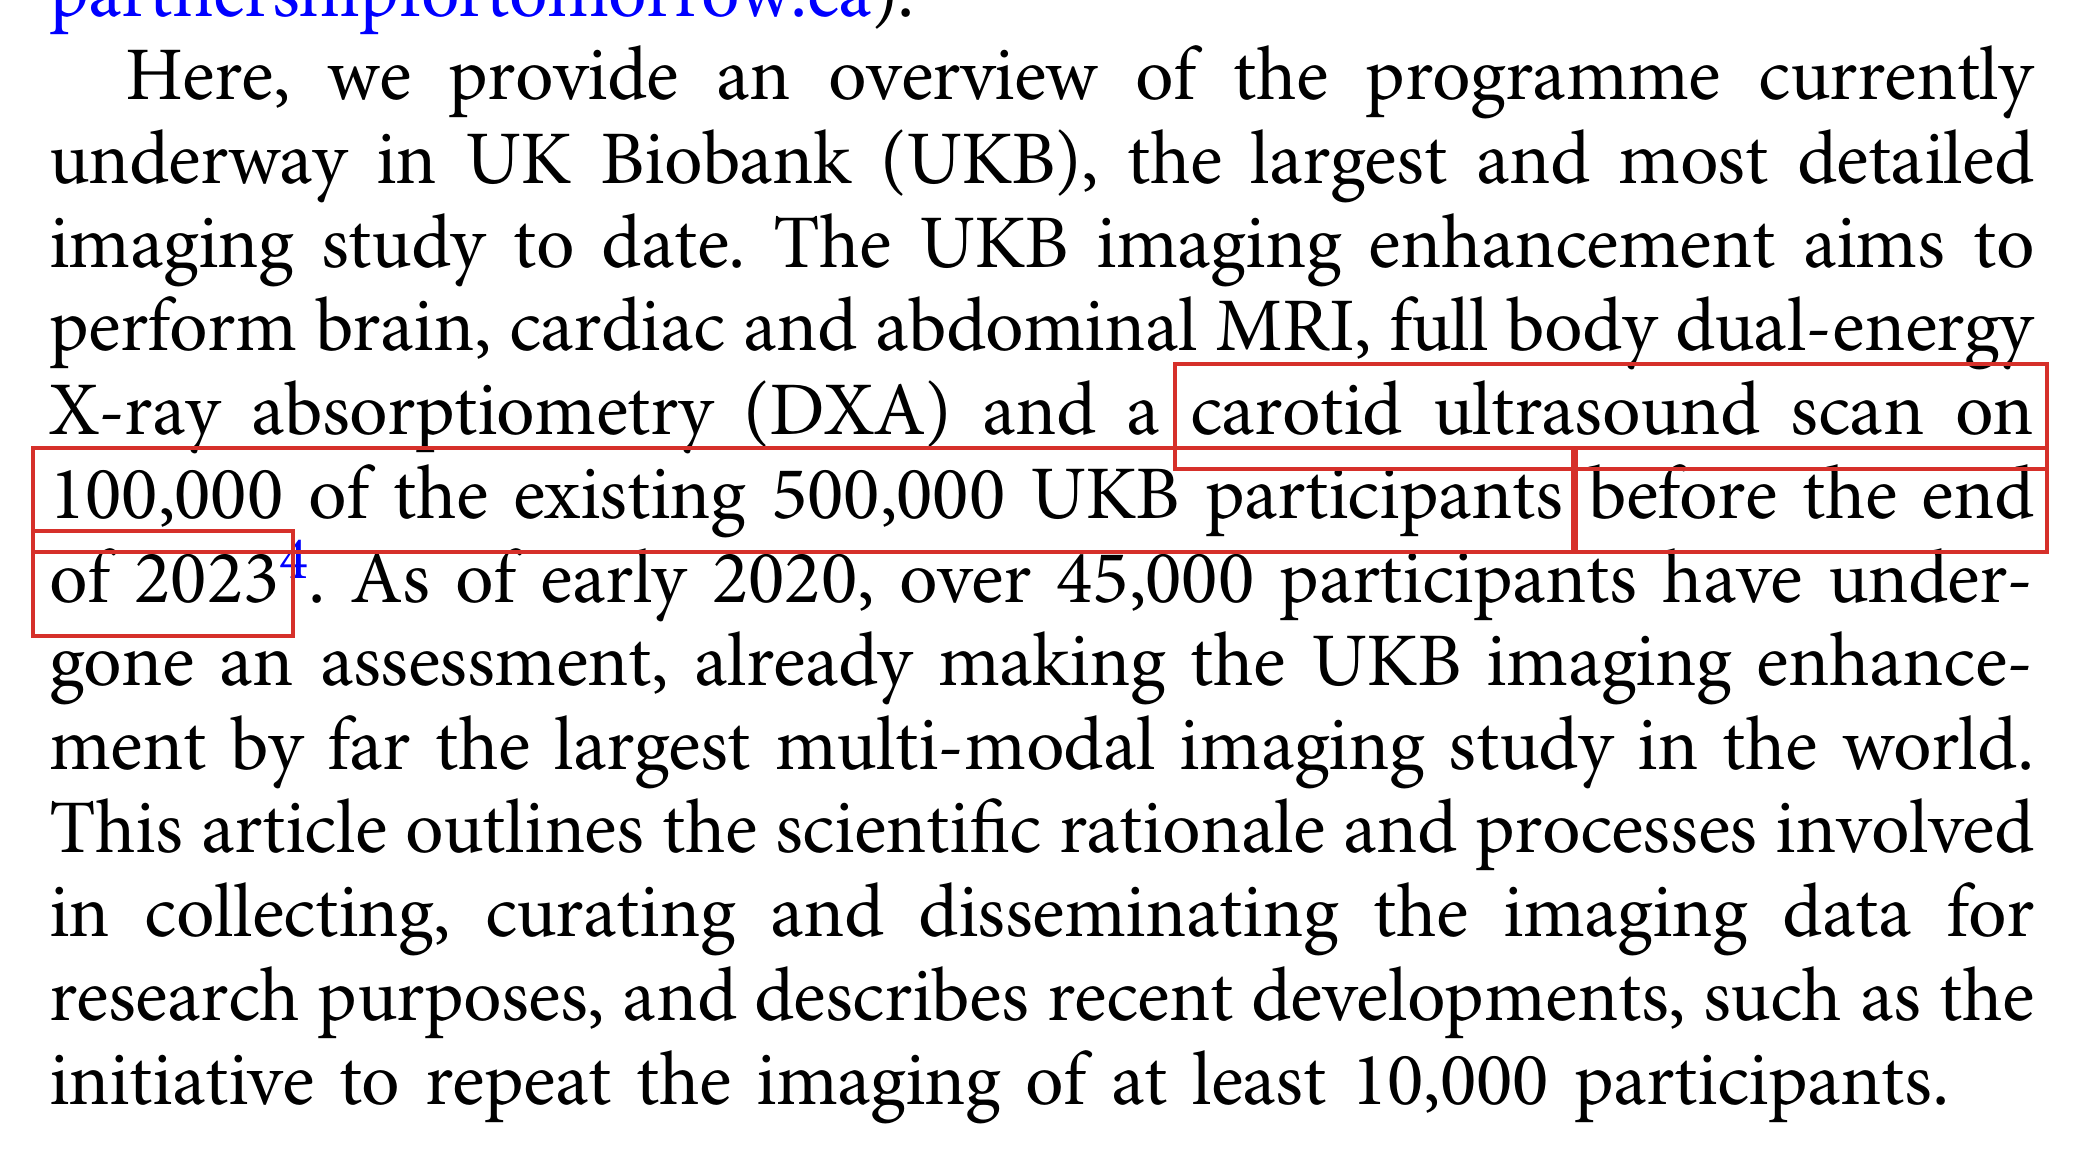
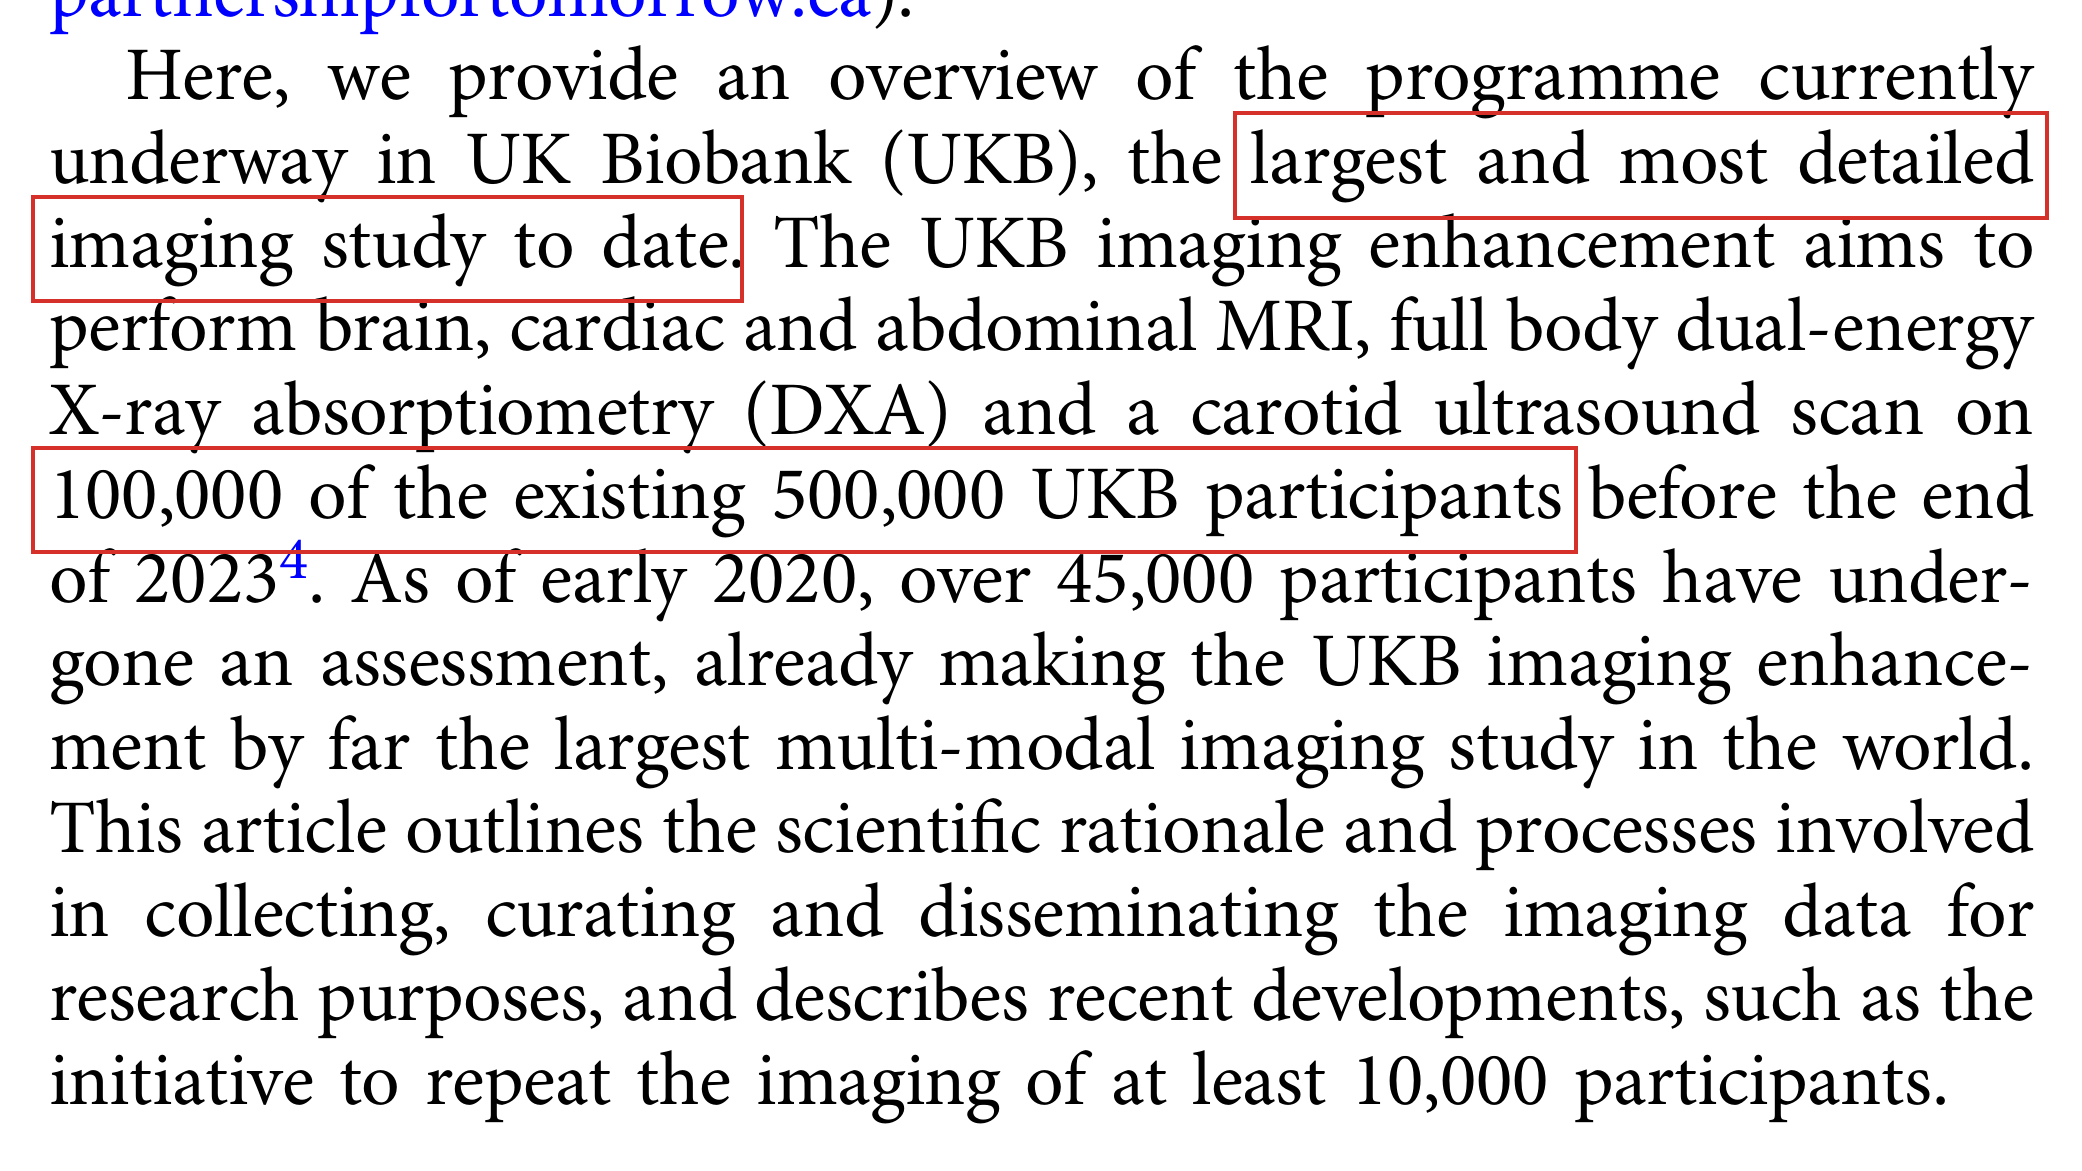
demo: regenerate the showcase so its caveat matches the code
The committed report still carried the pre-item-5 attribution caveat --
"attribution is a text match that can be wrong", describing the similarity
matcher that no longer exists. A stale disclosure in the repo's one committed
artefact is the same class of defect as a stale README claim, so it is
regenerated rather than annotated.

The pin holds: 1 supported / 2 contradicted / 1 not retrieved / 1 uncited over
4 claims, opus-5, and every planted defect found. Coverage is now coverage/3
with 5 of 5 occurrences placed and none uncertain, and claim 3 carries two ctx
ids -- the two labels in one sentence, returned by the extractor rather than
guessed from a paraphrase.

Note wording and the decisive passage differ from the previous run, as they do
between any two runs of a model step. sudlow-2015's crop moved from page 1 to
page 3, where the judge cited Table 3 by name.

diff --git a/examples/demo/output/report.md b/examples/demo/output/report.md
@@ -8,14 +8,14 @@ Manuscript: `demo_manuscript.pdf` · Sources: `3 / 4` cited references available
 
 > Ingest `converter: docling 2.118.1` — layout-aware.
 
-> ⚠ How to read that figure: attribution is a text match that can be wrong — deciding which citation a claim came from is a text comparison, so the counts can be right while a pointer is wrong. An attribution the tool cannot make counts as NOT covered, never as covered — and it refuses close calls, so two similar sentences citing one reference can both read as unaddressed where a reader would pair them at a glance. This figure understates coverage there. A sentence citing the same reference twice needs two extracted claims, so the ratio is not comparable between papers. And detection still reads bracketed numeric markers only — a citation style it cannot see contributes no occurrences at all, which makes this ratio look better than reality, not worse.
+> ⚠ How to read that figure: attribution is the context the extractor named. Extraction is shown every place this paper cites something and returns which of them each claim came from, so the pointer is no longer a text comparison — but naming it is still a model step, and a claim can be placed on the wrong sentence. A claim that names no place at all leaves that reference's remaining places counted as NOT covered, never as covered, so the figure understates coverage there. And detection still reads bracketed numeric markers only — a citation style it cannot see contributes no occurrences at all, which makes this ratio look better than reality, not worse.
 
 ---
 
-## Claim 1: "Deep learning on frontal chest radiographs detected type 2 diabetes with external validation AUC of 0.94."
+## Claim 1: "Deep learning on frontal chest radiographs detected type 2 diabetes with an external validation AUC of 0.94."
 
 **Status:** ❌ CONTRADICTED
-**Location:** Background ¶1 · cites [1]
+**Location:** Background · cites [1]
 
 > Deep learning applied to frontal chest radiographs detected type 2 diabetes with an external validation AUC of 0.94 [1].
 
@@ -24,14 +24,14 @@ Manuscript: `demo_manuscript.pdf` · Sources: `3 / 4` cited references available
 ### ❌ CONTRADICTED — `pyrros-2023` (cited as [1])
 
 - **Source:** Page 4 `(block_0050)` 
-> The source reports external validation at a distinct institution yielding a ROC AUC of 0.77, not 0.94 (internal prospective AUC was 0.84); no 0.94 figure appears anywhere.
+> The source reports external validation ROC AUC of 0.77 (internal prospective AUC 0.84); no AUC of 0.94 appears anywhere.
 
 ![evidence](evidence/claim_01_pyrros-2023_p4.png)
 *red box = matched text*
 ## Claim 3: "UK Biobank recruited approximately 500,000 adults aged 40-69 years, and its imaging enhancement targets 100,000 participants."
 
 **Status:** ✅ SUPPORTED — *most adverse of 2 cited sources*
-**Location:** Population imaging ¶1 · cites [2, 3]
+**Location:** Population imaging · cites [2, 3]
 
 > Dedicated cohorts complement such opportunistic reuse: the UK Biobank cohort profile describes recruitment of approximately 500,000 adults aged 40-69 years [2], and its imaging enhancement targets 100,000 participants [3].
 
@@ -41,24 +41,24 @@ Manuscript: `demo_manuscript.pdf` · Sources: `3 / 4` cited references available
 
 ### ✅ SUPPORTED — `sudlow-2015` (cited as [2])
 
-- **Source:** Page 1 `(block_0018)` 
-> The source states the cohort has "over 500,000 participants aged 40 -69 years when recruited in 2006 -2010", and separately reports multi-modal imaging in a subset of 100,000 participants (block_0038, block_0054).
+- **Source:** Page 3 `(block_0038)` 
+> Source states over 500,000 participants aged 40-69 recruited 2006-2010 (block_0018/block_0027) and that multimodal imaging is planned in subsets of 100,000 participants (block_0038, Table 3).
 
-![evidence](evidence/claim_03_sudlow-2015_p1.png)
+![evidence](evidence/claim_03_sudlow-2015_p3.png)
 *red box = matched text*
 <br>
 
 ### ✅ SUPPORTED — `littlejohns-2020` (cited as [3])
 
 - **Source:** Page 2 `(block_0013)` 
-> The source states UK Biobank is a cohort of half a million participants aged 40-69 and that the imaging enhancement aims to image 100,000 of the existing 500,000 participants.
+> The source states the imaging enhancement aims to image "100,000 of the existing 500,000 UKB participants", and describes the cohort as half a million participants aged 40-69 recruited 2006-2010.
 
 ![evidence](evidence/claim_03_littlejohns-2020_p2.png)
 *red box = matched text*
 ## Claim 4: "Nearly one in five confirmed UK Biobank participants had not attended an imaging assessment centre."
 
 **Status:** ❌ CONTRADICTED
-**Location:** Population imaging ¶1 · cites [3]
+**Location:** Population imaging · cites [3]
 
 > Attendance logistics remain a bottleneck, however - nearly one in five confirmed participants had not attended an imaging assessment centre [3].
 
@@ -67,10 +67,10 @@ Manuscript: `demo_manuscript.pdf` · Sources: `3 / 4` cited references available
 ### ❌ CONTRADICTED — `littlejohns-2020` (cited as [3])
 
 - **Source:** Page 3 `(block_0023)` 
-> The source reports that of those eligible who booked an appointment, 97% attended an imaging assessment centre, i.e. ~3% non-attendance, not nearly one in five; the ~20% figure in the source is the attendance rate of the full 500,000 cohort required to reach 100,000 scans.
+> The source reports that of those eligible who booked an appointment, "97% have attended an imaging assessment centre" — i.e., about 3%, not nearly one in five, had not attended.
 
 ![evidence](evidence/claim_04_littlejohns-2020_p3.png)
-*red box = matched text*
+*⚠ no anchor phrase was found on this page — the crop is shown for context and nothing is boxed.*
 ---
 
 ## Not verified — source not retrieved, or check failed (1 of 4)
@@ -80,14 +80,14 @@ the check step failed (see each note).
 Reported as such — never filled in from memory.
 
 - **Background** (1):
-  - ⊘ NOT RETRIEVED · [4] Regulatory clearance of AI systems for clinical imaging is accelerating. — *cited source not available (paywalled)*
+  - ⊘ NOT RETRIEVED · [4] Regulatory clearances of AI systems for clinical imaging are accelerating. — *cited source not available (paywalled)*
 
 ## Assertions without citation (1) — your judgement required
 
 Statements that would normally carry a reference but don't. Not verified —
 flagged for you to weigh.
 
-- **[U1]** Routine imaging archives are among the largest untapped screening resources in medicine. *(Background ¶1)*
+- **[U1]** Routine imaging archives are among the largest untapped screening resources in medicine. *(Background)*
 ## Literature scout — what the reference list doesn't know
 
 
